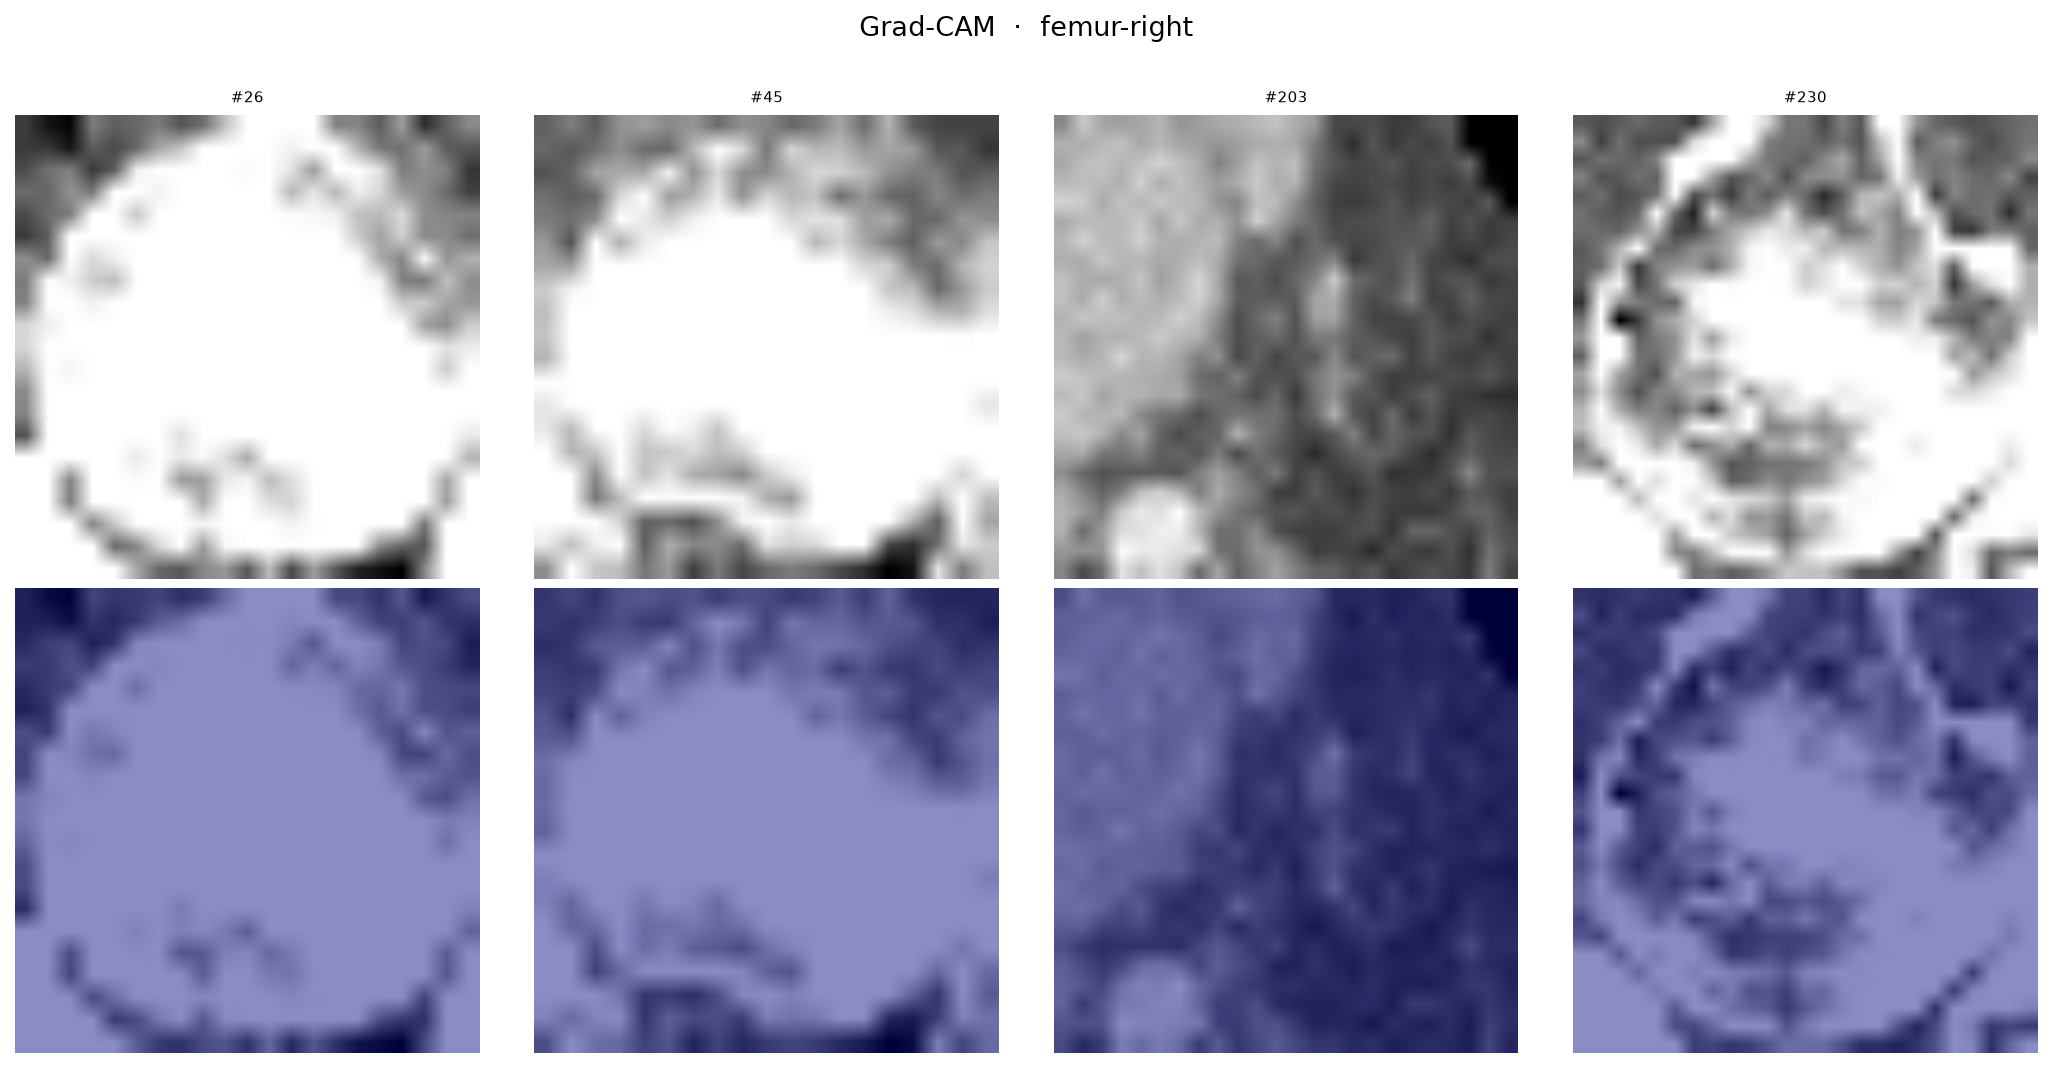
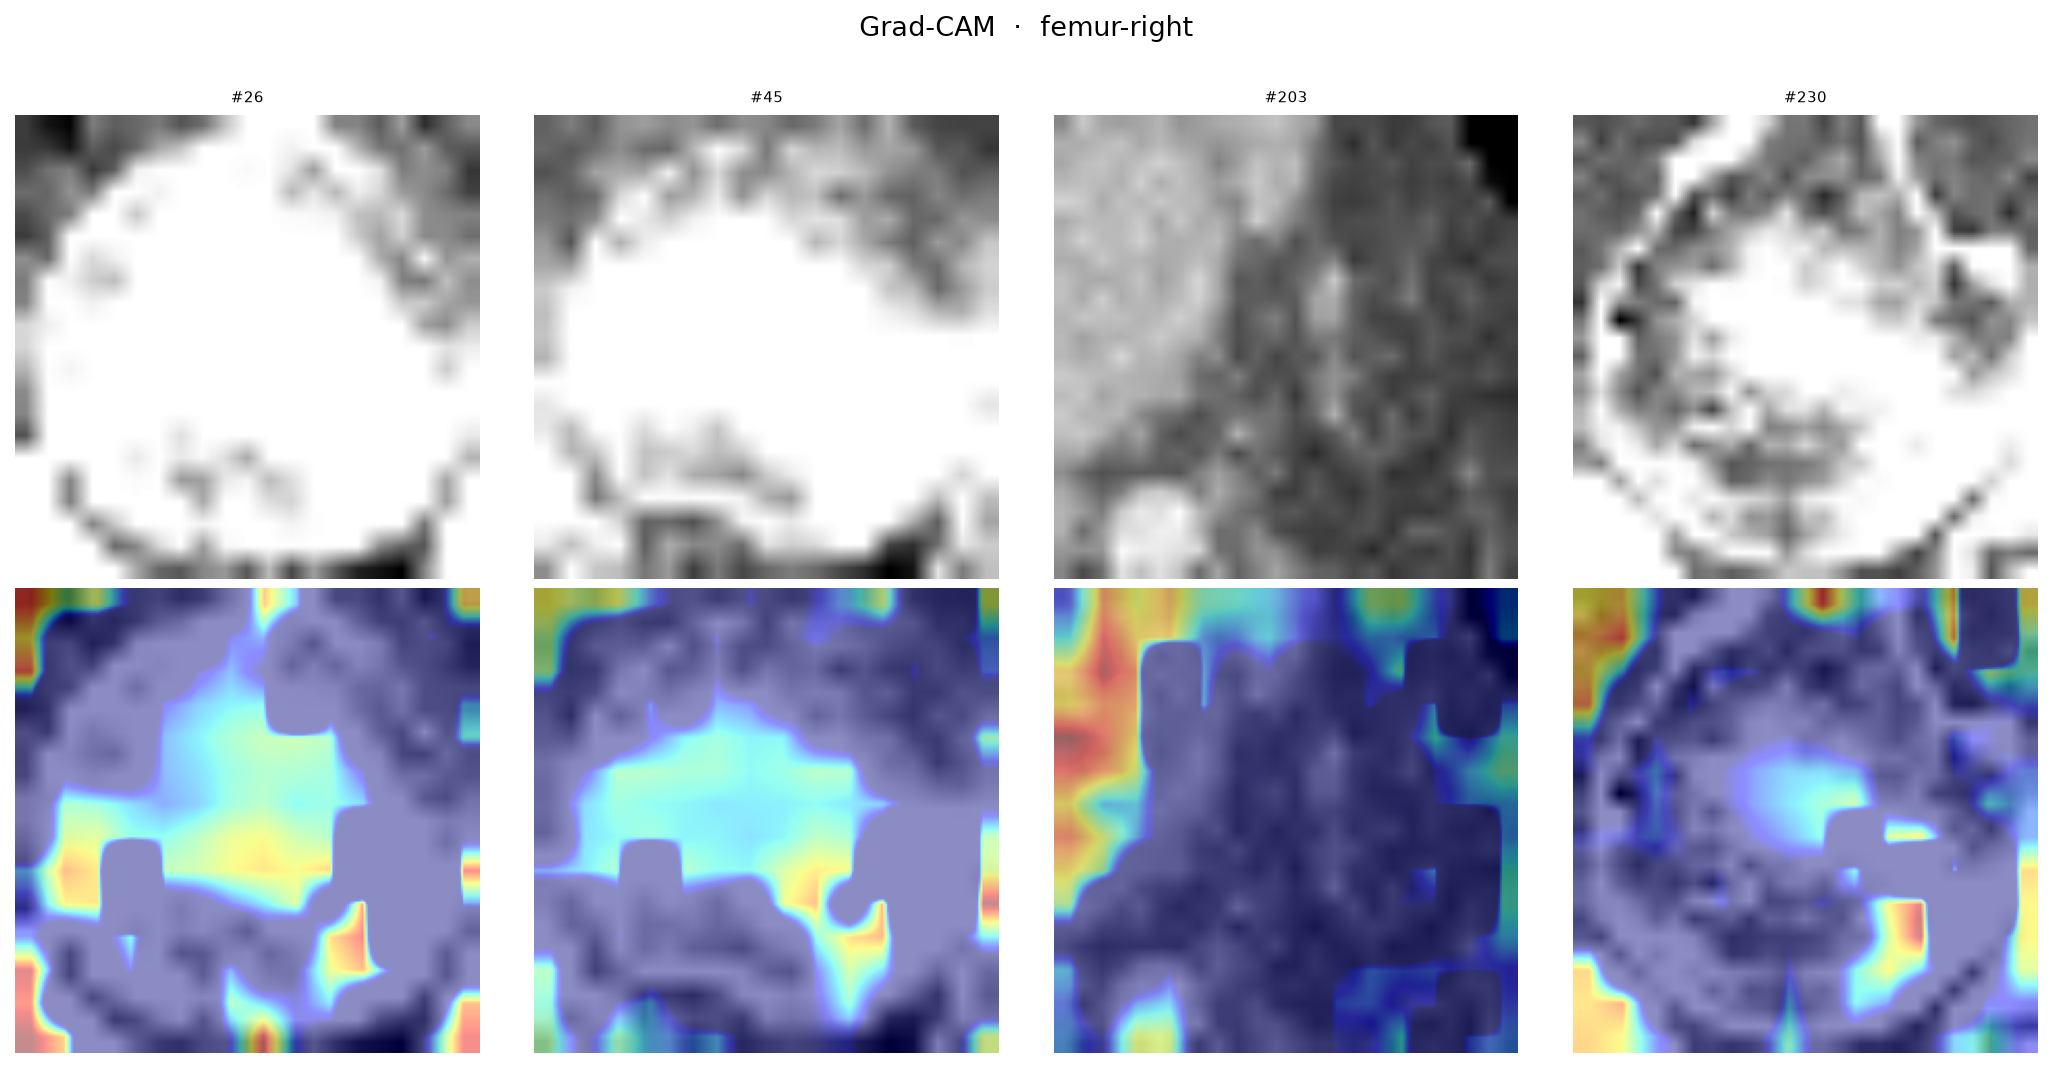
Initial commit: BioMedCLIP fine-tuning + Grad-CAM pseudo-masks on OrganAMNIST

diff --git a/src/explainability/gradcam.py b/src/explainability/gradcam.py
@@ -63,15 +63,12 @@ class BioMedCLIPGradCAM:
         score = (image_features * text_features[target_class]).sum()
         score.backward()
 
-        # activations / gradients: (1, 197, 768)
-        # drop CLS token (index 0), keep 196 patch tokens
-        acts  = self._activations[0, 1:, :]   # (196, 768)
-        grads = self._gradients[0, 1:, :]     # (196, 768)
+        # BioMedCLIP uses CLS-token pooling: only token 0 receives gradient.
+        # Use CLS gradient as channel importance weights, patch activations as spatial map.
+        cls_grads = self._gradients[0, 0, :]   # (768,) — channel importance
+        acts      = self._activations[0, 1:, :] # (196, 768) — spatial activations
 
-        # channel-wise gradient mean → weight activations
-        weights = grads.mean(dim=0)            # (768,)
-        cam = (acts * weights).sum(dim=-1)     # (196,)
-        cam = F.relu(cam)
+        cam = (acts * cls_grads).sum(dim=-1)   # (196,)
 
         # reshape to 14×14 spatial grid
         grid = int(cam.shape[0] ** 0.5)        # 14 for ViT-B/16 at 224px
